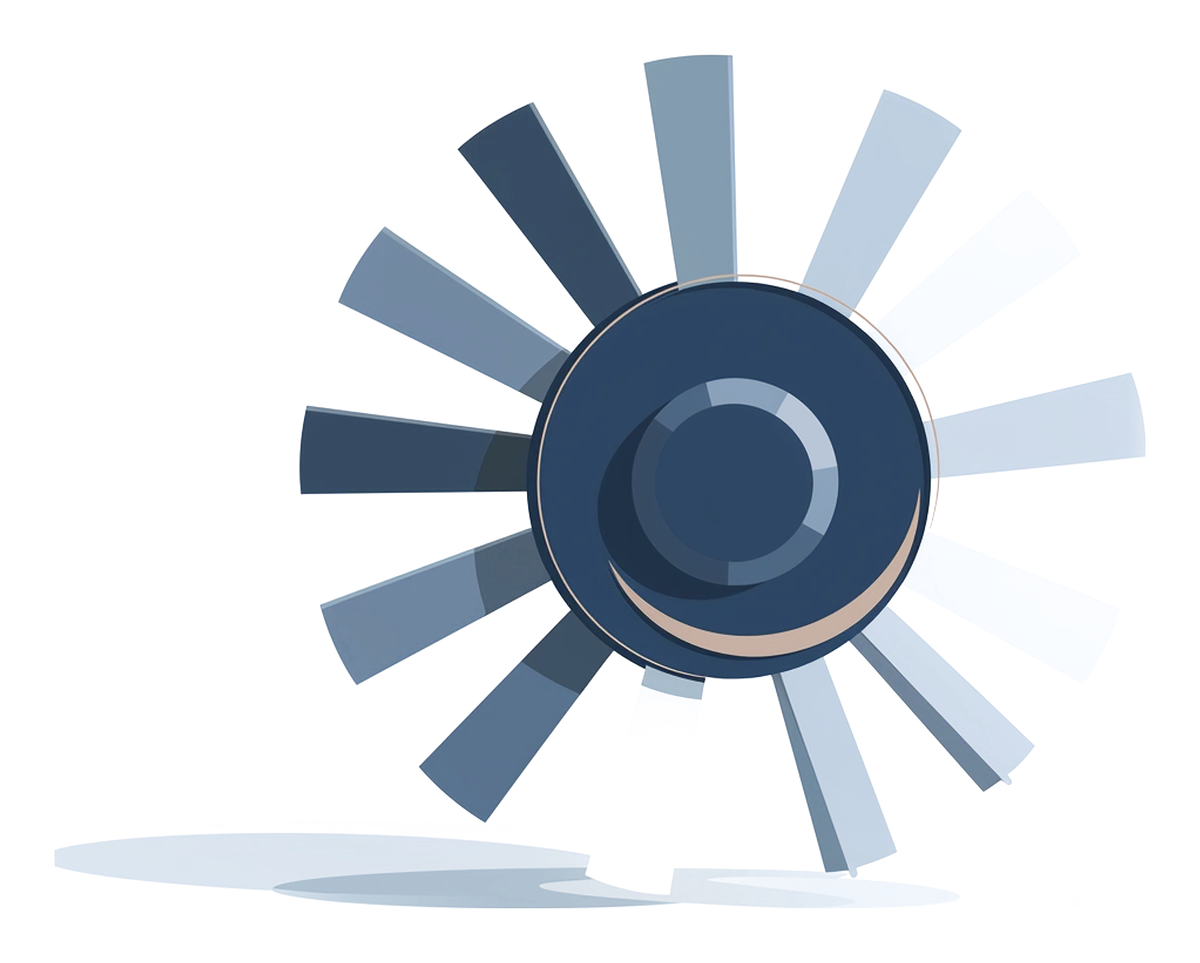
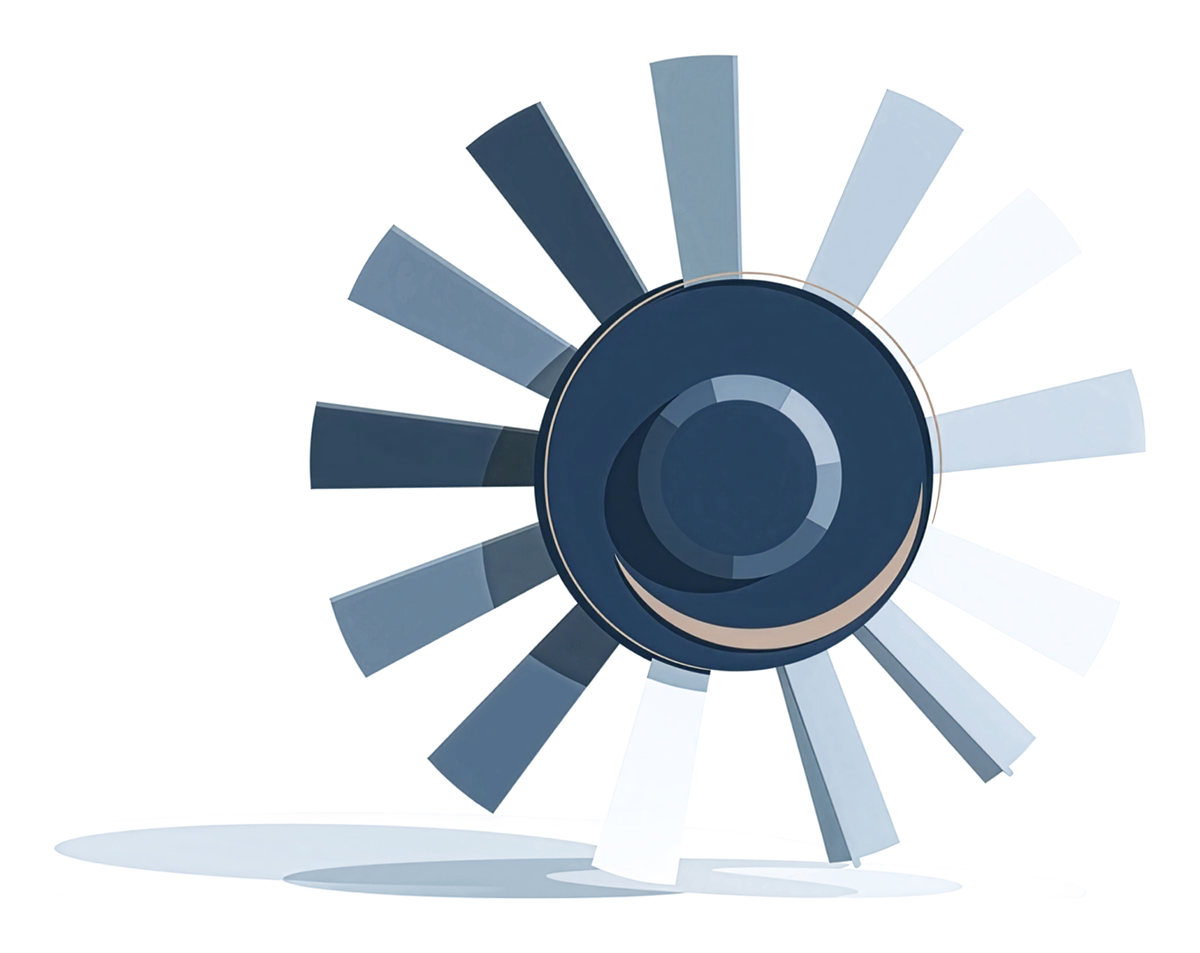
Two more case-study heroes from Firefly Upscaler 4x (29 of 63)

diff --git a/web/content/image-licences.ts b/web/content/image-licences.ts
@@ -305,7 +305,7 @@ export const imageLicences: ImageLicence[] = [
     file: "public/hero/case-study-state-metals-producer-india.webp",
     source: "licensed-generative",
     provider: "Adobe Firefly",
-    reference: "firefly-image5-2026-11-26-spec63-60 (local 4x enlargement; Firefly Upscaler pending)",
+    reference: "firefly-image5-2026-11-26-spec63-60 (Firefly Upscaler 4x)",
     acquired: "2026-11-26",
     depicts: "A pale blue band of material pouring from a tilted navy vessel into a waiting form",
     aiGenerated: true,
@@ -375,7 +375,7 @@ export const imageLicences: ImageLicence[] = [
     file: "public/hero/case-study-industrial-turbine-manufacturer-india.webp",
     source: "licensed-generative",
     provider: "Adobe Firefly",
-    reference: "firefly-image5-2026-11-26-spec63-53 (local 4x enlargement; Firefly Upscaler pending)",
+    reference: "firefly-image5-2026-11-26-spec63-53 (Firefly Upscaler 4x)",
     acquired: "2026-11-26",
     depicts: "Radial navy and blue blades arranged around a central hub",
     aiGenerated: true,
